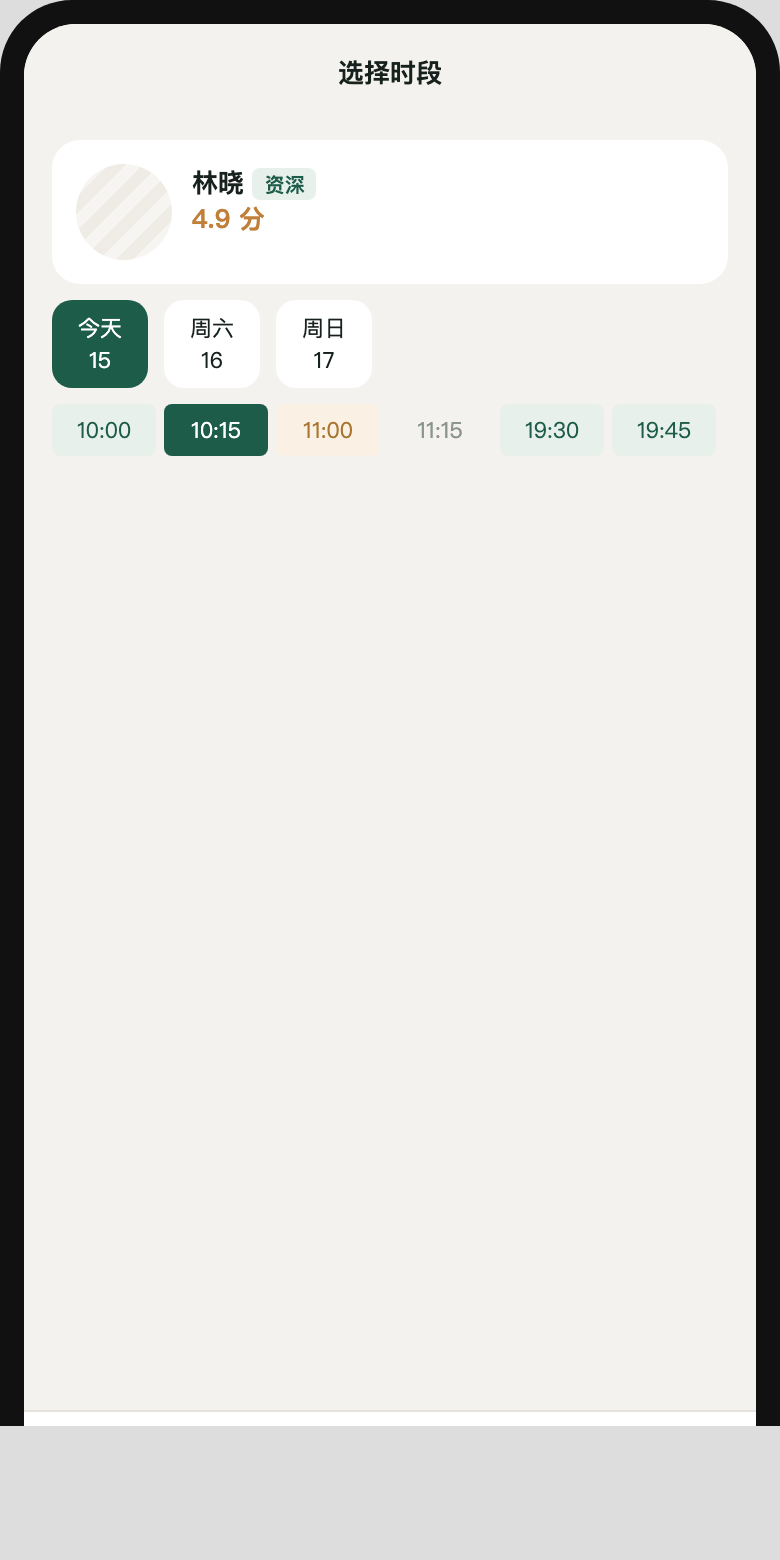
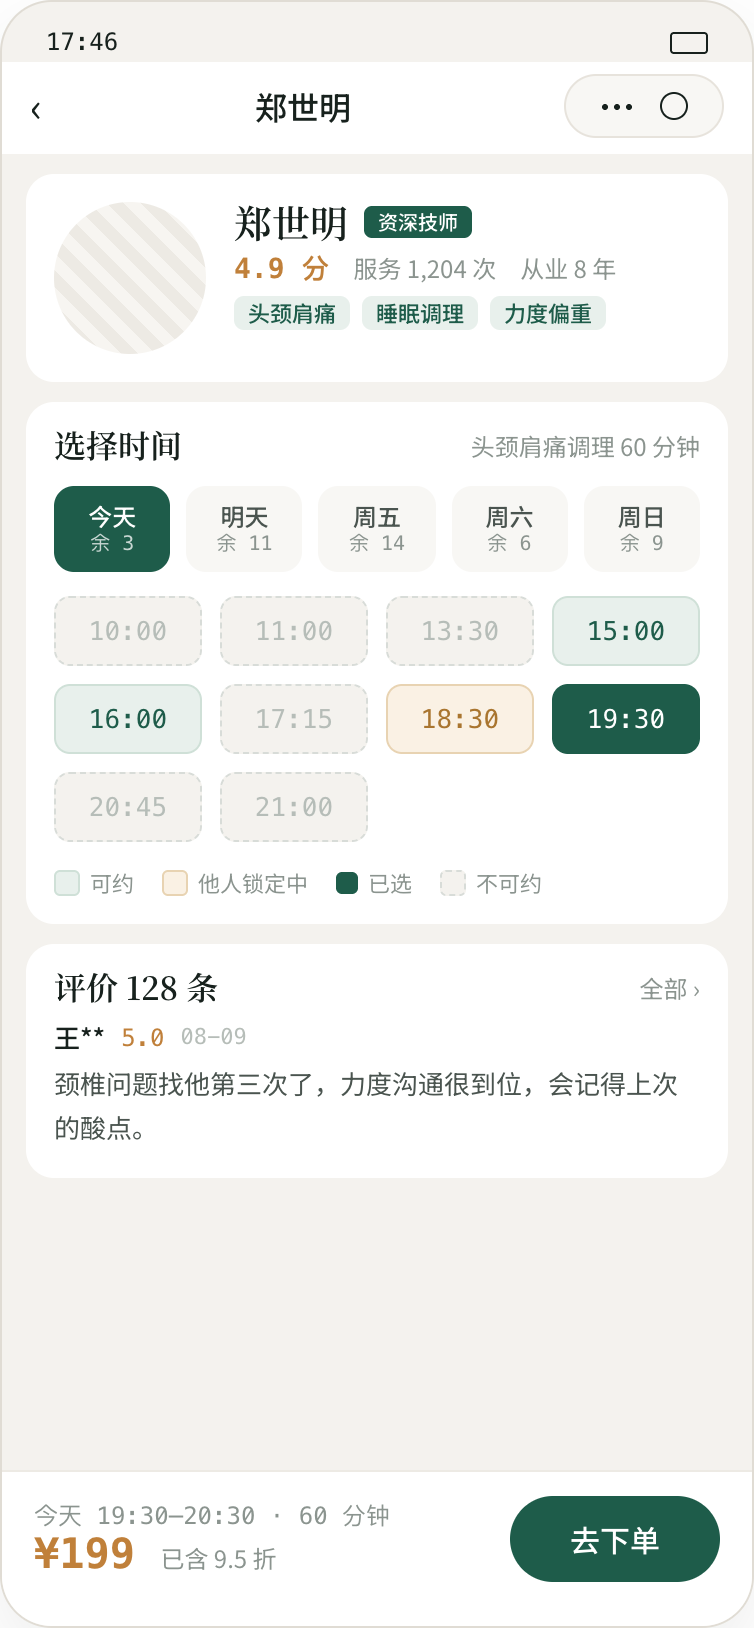
fix(ui): match C-end screens to design and use full-bleed mockups
Walkthrough now shows complete design phones (status bar + dock).
Customer home/symptom/calendar/confirm layout follows the 17-screen spec.

diff --git a/apps/admin-web/public/walkthrough/index.html b/apps/admin-web/public/walkthrough/index.html
@@ -20,13 +20,13 @@ main { max-width:880px; margin:0 auto; padding:24px 20px 80px; }
 .step h3 { margin:4px 0 8px; font-size:20px; }
 .step p { margin:0 0 16px; color:#3d4f48; line-height:1.6; }
 figure { margin:0; text-align:center; }
-img { width:min(390px,100%); border-radius:28px; box-shadow:0 16px 40px rgba(20,40,32,.18); background:#111; }
+img { width:min(420px,100%); border-radius:32px; box-shadow:0 16px 40px rgba(20,40,32,.18); background:#111; }
 </style>
 </head>
 <body>
 <header>
   <h1>肌松大师 · 小程序功能流程验收</h1>
-  <p>按顾客预约 → 技师服务 → 前台收银 → 店长审批的真实路径整理。每一步对应开发者工具里的页面。数据用本机 dev 目录：演示旗舰店、林晓/陈默/周可、全身推拿放松 ¥198。</p>
+  <p>按顾客预约 → 技师服务 → 前台收银 → 店长审批整理。有设计稿的页面直接用整机设计图（含状态栏和底栏），避免半截截图。实现已按同一套玉墨/暖铜稿对齐，开发者工具里编译后对照。</p>
 </header>
 <nav>
   <a href="#c1">顾客预约</a>

diff --git a/apps/admin-web/vite.config.ts b/apps/admin-web/vite.config.ts
@@ -8,8 +8,23 @@ const proxy = {
   '/api': { target: apiTarget, changeOrigin: true },
 }
 
+function walkthroughIndex() {
+  return {
+    name: 'walkthrough-index',
+    configureServer(server: { middlewares: { use: (fn: (req: { url?: string }, _res: unknown, next: () => void) => void) => void } }) {
+      server.middlewares.use((req, _res, next) => {
+        const path = (req.url || '').split('?')[0]
+        if (path === '/walkthrough' || path === '/walkthrough/') {
+          req.url = '/walkthrough/index.html'
+        }
+        next()
+      })
+    },
+  }
+}
+
 export default defineConfig({
-  plugins: [vue()],
+  plugins: [vue(), walkthroughIndex()],
   server: {
     port: 5173,
     proxy,

diff --git a/apps/admin-web/src/App.vue b/apps/admin-web/src/App.vue
@@ -51,6 +51,7 @@ function logout() {
         <router-link to="/catalog">项目 SKU</router-link>
         <router-link to="/frontdesk">前台收银</router-link>
         <router-link to="/mini">小程序预览</router-link>
+        <a href="/walkthrough/index.html">流程验收</a>
         <router-link to="/health">系统管理</router-link>
       </nav>
       <div class="side-foot">
